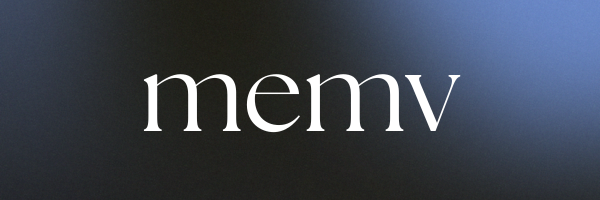
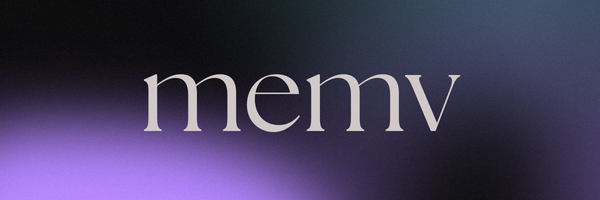
style(docs): update branding assets and violet theme
New banner and favicon, reworked CSS to match the violet
color palette, switched body font from Inter to DM Sans.

diff --git a/docs/stylesheets/extra.css b/docs/stylesheets/extra.css
@@ -1,40 +1,89 @@
 /* ============================================
-   memv Documentation Styles
-   Colors matched to banner: dark slate + steel blue
+   memv — dark atmospheric violet theme
+   Matched to banner: deep slate + diffuse violet glow
    ============================================ */
 
 /* --------------------------------------------
-   Theme Colors
+   Custom Properties
    -------------------------------------------- */
 :root {
-  --md-primary-fg-color: #4a6d8c;
-  --md-primary-fg-color--light: #7a9cb8;
-  --md-primary-fg-color--dark: #3a5a75;
-  --md-accent-fg-color: #7a9cb8;
+  --memv-violet: #9178b8;
+  --memv-violet-light: #b9a0d6;
+  --memv-violet-dim: #6b5490;
+  --memv-violet-glow: rgba(145, 120, 184, 0.12);
+  --memv-cream: #e4ddd2;
+  --memv-text-muted: #9e96ab;
+
+  --md-primary-fg-color: var(--memv-violet);
+  --md-primary-fg-color--light: var(--memv-violet-light);
+  --md-primary-fg-color--dark: var(--memv-violet-dim);
+  --md-accent-fg-color: var(--memv-violet-light);
 }
 
 [data-md-color-scheme="slate"] {
-  --md-primary-fg-color: #5b7ea1;
-  --md-primary-fg-color--light: #8aacc4;
-  --md-primary-fg-color--dark: #4a6d8c;
-  --md-accent-fg-color: #8aacc4;
-  --md-default-bg-color: #1a1a2e;
-  --md-default-bg-color--light: #1f1f35;
+  --md-primary-fg-color: var(--memv-violet);
+  --md-primary-fg-color--light: var(--memv-violet-light);
+  --md-primary-fg-color--dark: var(--memv-violet-dim);
+  --md-accent-fg-color: var(--memv-violet-light);
+  --md-default-bg-color: #111120;
+  --md-default-bg-color--light: #16162a;
+  --md-code-bg-color: #0d0d1a;
+  --md-code-fg-color: #c8c0d8;
+  --md-typeset-color: #cdc5d8;
+  --md-typeset-a-color: var(--memv-violet-light);
+}
+
+[data-md-color-scheme="default"] {
+  --md-default-bg-color: #faf9f7;
+  --md-default-bg-color--light: #f4f2ef;
+  --md-code-bg-color: #f0eee9;
+  --md-typeset-a-color: var(--memv-violet);
+}
+
+/* --------------------------------------------
+   Header & Navigation Bar
+   -------------------------------------------- */
+[data-md-color-scheme="slate"] .md-header {
+  background: #0e0e1c;
+  border-bottom: 1px solid rgba(145, 120, 184, 0.08);
+}
+
+[data-md-color-scheme="slate"] .md-tabs {
+  background: #0e0e1c;
 }
 
 /* --------------------------------------------
    Announcement Bar
    -------------------------------------------- */
 .md-banner {
-  background: #141425;
+  background: #0a0a16;
+  border-bottom: 1px solid rgba(145, 120, 184, 0.06);
 }
 
 .md-banner a {
-  color: #e0e0e8 !important;
+  color: var(--memv-text-muted) !important;
+  font-size: 0.72rem;
+  letter-spacing: 0.03em;
 }
 
 .md-banner a:hover {
-  color: var(--md-accent-fg-color) !important;
+  color: var(--memv-violet-light) !important;
+}
+
+/* --------------------------------------------
+   Sidebar
+   -------------------------------------------- */
+[data-md-color-scheme="slate"] .md-sidebar {
+  border-right: 1px solid rgba(145, 120, 184, 0.05);
+}
+
+.md-nav__link--active {
+  font-weight: 600;
+  color: var(--memv-violet-light) !important;
+}
+
+[data-md-color-scheme="slate"] .md-nav__link:hover {
+  color: var(--memv-violet-light);
 }
 
 /* --------------------------------------------
@@ -42,7 +91,15 @@
    -------------------------------------------- */
 .md-typeset h1 {
   font-weight: 700;
-  color: var(--md-primary-fg-color--light);
+  letter-spacing: -0.01em;
+}
+
+[data-md-color-scheme="slate"] .md-typeset h1 {
+  color: var(--memv-cream);
+}
+
+[data-md-color-scheme="slate"] .md-typeset h2 {
+  color: #d4cce0;
 }
 
 .md-content h1[id="memv"] {
@@ -52,55 +109,149 @@
 }
 
 /* --------------------------------------------
+   Links
+   -------------------------------------------- */
+.md-typeset a:hover {
+  text-decoration-color: var(--memv-violet);
+}
+
+/* --------------------------------------------
    Code Blocks
    -------------------------------------------- */
 .md-typeset pre {
-  border-radius: 6px;
+  border-radius: 8px;
+  border: 1px solid rgba(145, 120, 184, 0.08);
 }
 
 .md-typeset code {
   border-radius: 4px;
 }
 
+[data-md-color-scheme="slate"] .md-typeset code {
+  background: rgba(145, 120, 184, 0.08);
+}
+
+[data-md-color-scheme="slate"] .highlight .filename {
+  background: #0a0a15;
+  border-bottom: 1px solid rgba(145, 120, 184, 0.06);
+}
+
 /* --------------------------------------------
    Tables
    -------------------------------------------- */
 .md-typeset table:not([class]) th {
-  background: var(--md-primary-fg-color);
+  background: var(--memv-violet-dim);
   color: white;
   font-weight: 600;
+}
+
+[data-md-color-scheme="slate"] .md-typeset table:not([class]) th {
+  background: rgba(107, 84, 144, 0.6);
+}
+
+[data-md-color-scheme="slate"] .md-typeset table:not([class]) tr:hover td {
+  background: var(--memv-violet-glow);
 }
 
 /* --------------------------------------------
    Admonitions
    -------------------------------------------- */
+.md-typeset .admonition,
+.md-typeset details {
+  border-radius: 6px;
+}
+
 .md-typeset .admonition.tip,
 .md-typeset details.tip {
-  border-color: var(--md-primary-fg-color);
+  border-color: var(--memv-violet);
 }
 
 .md-typeset .tip > .admonition-title,
 .md-typeset .tip > summary {
-  background-color: rgba(91, 126, 161, 0.1);
+  background-color: var(--memv-violet-glow);
 }
 
-/* --------------------------------------------
-   Navigation
-   -------------------------------------------- */
-.md-nav__link--active {
-  font-weight: 600;
-  color: var(--md-accent-fg-color) !important;
+.md-typeset .admonition.note,
+.md-typeset details.note {
+  border-color: var(--memv-violet-dim);
+}
+
+.md-typeset .note > .admonition-title,
+.md-typeset .note > summary {
+  background-color: rgba(107, 84, 144, 0.08);
 }
 
 /* --------------------------------------------
    Buttons
    -------------------------------------------- */
 .md-button--primary {
-  background-color: var(--md-primary-fg-color);
-  border-color: var(--md-primary-fg-color);
+  background-color: var(--memv-violet);
+  border-color: var(--memv-violet);
+  border-radius: 6px;
+  transition: background-color 0.2s, box-shadow 0.2s;
 }
 
 .md-button--primary:hover {
-  background-color: var(--md-primary-fg-color--dark);
-  border-color: var(--md-primary-fg-color--dark);
+  background-color: var(--memv-violet-dim);
+  border-color: var(--memv-violet-dim);
+  box-shadow: 0 0 20px rgba(145, 120, 184, 0.2);
+}
+
+/* --------------------------------------------
+   Footer
+   -------------------------------------------- */
+[data-md-color-scheme="slate"] .md-footer {
+  background: #0a0a16;
+  border-top: 1px solid rgba(145, 120, 184, 0.06);
+}
+
+/* --------------------------------------------
+   Search
+   -------------------------------------------- */
+[data-md-color-scheme="slate"] .md-search__form {
+  background: rgba(145, 120, 184, 0.06);
+  border: 1px solid rgba(145, 120, 184, 0.08);
+  border-radius: 6px;
+}
+
+[data-md-color-scheme="slate"] .md-search__form:hover {
+  border-color: rgba(145, 120, 184, 0.15);
+}
+
+/* --------------------------------------------
+   Horizontal Rules
+   -------------------------------------------- */
+[data-md-color-scheme="slate"] .md-typeset hr {
+  border-color: rgba(145, 120, 184, 0.1);
+}
+
+/* --------------------------------------------
+   Scrollbar (Webkit)
+   -------------------------------------------- */
+[data-md-color-scheme="slate"] ::-webkit-scrollbar {
+  width: 6px;
+}
+
+[data-md-color-scheme="slate"] ::-webkit-scrollbar-track {
+  background: transparent;
+}
+
+[data-md-color-scheme="slate"] ::-webkit-scrollbar-thumb {
+  background: rgba(145, 120, 184, 0.15);
+  border-radius: 3px;
+}
+
+[data-md-color-scheme="slate"] ::-webkit-scrollbar-thumb:hover {
+  background: rgba(145, 120, 184, 0.25);
+}
+
+/* --------------------------------------------
+   Mermaid Diagrams
+   -------------------------------------------- */
+[data-md-color-scheme="slate"] .mermaid {
+  --md-mermaid-node-bg-color: rgba(145, 120, 184, 0.1);
+  --md-mermaid-node-fg-color: #cdc5d8;
+  --md-mermaid-edge-color: rgba(145, 120, 184, 0.3);
+  --md-mermaid-label-fg-color: #cdc5d8;
+  --md-mermaid-label-bg-color: #111120;
 }
